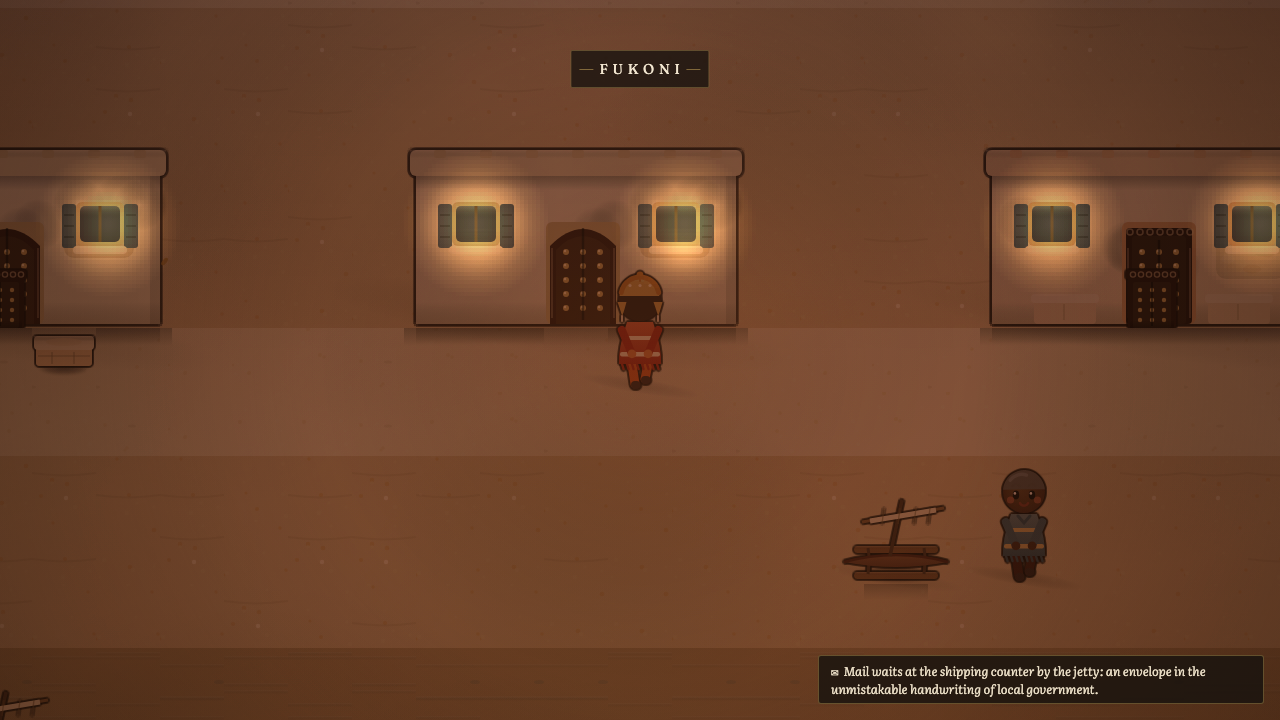
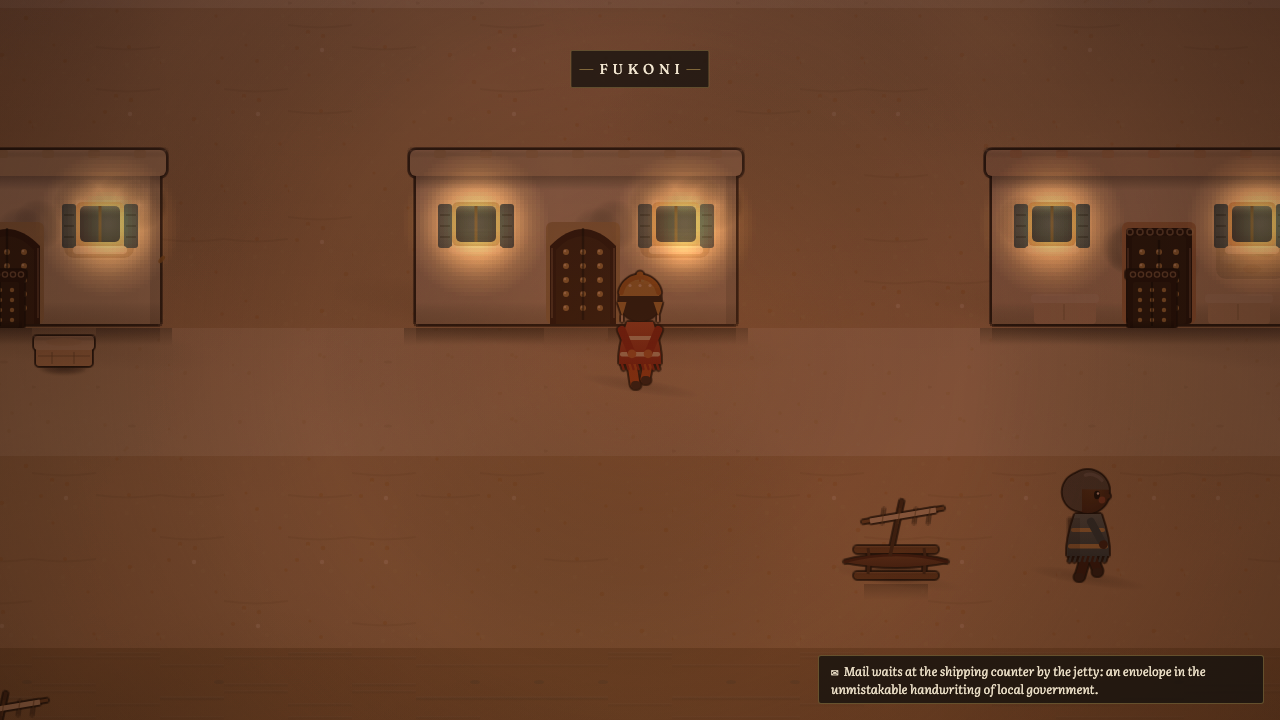
Character life pass: a real seated pose, greeting waves, speaking bob, pet hop, and the curiosity dot
Two new rig frames (sit, wave). Sitting finally has a body: legs folded,
figure settled. Villagers raise an arm as dialogue opens; whoever is
mid-sentence bobs gently with their own words; the dog hops when petted.
A quiet breathing dot marks whatever you face that would answer, and
only things, never bare ground, so discovery stays a pleasure.

Changed region(s): [[0.7812, 0.6417, 0.875, 0.825]]

diff --git a/src/engine/renderer.ts b/src/engine/renderer.ts
@@ -61,6 +61,13 @@ export class Renderer {
   private fireScreen: [number, number][] = [];
   /** Scratch cell for per-sprite compositing (fire rim). */
   private scratch = surface(AW, AH);
+  /** Greeting waves and happy hops, keyed by actor, counted down in tick. */
+  private waves = new Map<Actor, number>();
+  private bounces = new Map<Actor, number>();
+  /** Whoever is mid-sentence bobs gently. */
+  private speaker: Actor | null = null;
+  /** The facing-cell hint: a quiet pulse over whatever would respond. */
+  private hint: [number, number] | null = null;
 
   constructor(readonly canvas: HTMLCanvasElement) {
     const ctx = canvas.getContext('2d', { alpha: false });
@@ -120,6 +127,34 @@ export class Renderer {
     this.emotes = this.emotes.filter((e) => e.t < EMOTE_DUR);
     for (const p of this.puffs) p.t += dt;
     this.puffs = this.puffs.filter((p) => p.t < PUFF_DUR);
+    for (const [a, t] of this.waves) {
+      if (t - dt <= 0) this.waves.delete(a);
+      else this.waves.set(a, t - dt);
+    }
+    for (const [a, t] of this.bounces) {
+      if (t - dt <= 0) this.bounces.delete(a);
+      else this.bounces.set(a, t - dt);
+    }
+  }
+
+  /** A raised-arm hello, played as dialogue opens. */
+  wave(actor: Actor) {
+    this.waves.set(actor, 0.9);
+  }
+
+  /** A happy little hop (petting, gifts, good news). */
+  bounce(actor: Actor) {
+    this.bounces.set(actor, 0.45);
+  }
+
+  /** The actor currently mid-sentence, or null. */
+  setSpeaker(actor: Actor | null) {
+    this.speaker = actor;
+  }
+
+  /** World tile that would respond to the action button, or null. */
+  setHint(cell: [number, number] | null) {
+    this.hint = cell;
   }
 
   /** Pop a little thought bubble over someone's head. */
@@ -237,6 +272,24 @@ export class Renderer {
     }
     layers.sort((a, b) => a.sort - b.sort);
     for (const l of layers) l.draw();
+
+    // The quiet cursor of curiosity: a breathing dot over what would answer.
+    if (this.hint) {
+      const [hx, hy] = this.hint;
+      const x = (hx * TILE + TILE / 2 - cam.x) * A;
+      const y = (hy * TILE - cam.y) * A - 10;
+      const pulse = 0.5 + Math.sin(this.time * 3.2) * 0.5;
+      ctx.save();
+      ctx.globalAlpha = 0.4 + pulse * 0.3;
+      ctx.fillStyle = '#f2e6d0';
+      ctx.strokeStyle = 'rgba(38,26,16,0.6)';
+      ctx.lineWidth = 1.6;
+      ctx.beginPath();
+      ctx.arc(x, y - pulse * 3, 3.6, 0, Math.PI * 2);
+      ctx.fill();
+      ctx.stroke();
+      ctx.restore();
+    }
 
     this.drawPuffs(cam);
     this.drawEmotes(cam);
@@ -510,21 +563,34 @@ export class Renderer {
       ctx.drawImage(cv, dx, dy + ddy);
     };
 
+    // Happy hops and speaking bobs ride on top of any pose.
+    const bounceT = this.bounces.get(s.actor) ?? 0;
+    const hop = bounceT > 0 ? -Math.sin((1 - bounceT / 0.45) * Math.PI) * 7 : 0;
+    const speakBob = this.speaker === s.actor ? Math.sin(this.time * 9) * 1.6 : 0;
+    const lift = hop + speakBob;
+
     if (s.rig === 'animal') {
       const col = s.actor.walkFrame();
       mirror(col);
-      drawLit(col, 0);
+      drawLit(col, lift);
       return;
     }
 
     // Humans: six-frame walk; at rest, a slow breath and the occasional blink.
+    // A seated pose overrides the legs entirely; a wave overrides the arms.
     const idle = !s.actor.isMoving;
     let col = idle ? 0 : s.actor.walkFrame6();
     if (idle && s.actor.dir === 'down' && ((this.time + index * 1.37) % 4.1) < 0.14) {
       col = 6; // blink
     }
+    if (idle && (this.waves.get(s.actor) ?? 0) > 0) col = 8;
+    if (s.actor.pose === 'sit') {
+      mirror(7);
+      drawLit(7, lift);
+      return;
+    }
     mirror(col);
-    if (idle) {
+    if (idle && lift === 0 && col !== 8) {
       const breathe = Math.sin((this.time + index * 0.9) * 2.6) * 1.6;
       if (breathe > 0.4) {
         const split = 18 * A;
@@ -534,7 +600,7 @@ export class Renderer {
         return;
       }
     }
-    drawLit(col, 0);
+    drawLit(col, lift);
   }
 
   /** Nearest fire within reach, as direction + falloff. */

diff --git a/src/art/character.ts b/src/art/character.ts
@@ -11,7 +11,7 @@ import { dot, outlineSheet, oval, rr, shade, surface, vgrad } from './pix';
 export const CHAR_W = 20;
 export const CHAR_H = 32;
 /** Sheet columns: 0-5 = six-frame walk (0 doubles as idle), 6 = blink. */
-export const CHAR_COLS = 7;
+export const CHAR_COLS = 9; // 0-5 walk, 6 blink, 7 sit, 8 wave
 
 export const DIR_ROW = { down: 0, up: 1, left: 2, right: 3 } as const;
 
@@ -77,11 +77,16 @@ function drawPose(g: CanvasRenderingContext2D, look: Look, dir: 'down' | 'up' | 
     g.translate(-AW / 2, -126);
   }
   const blink = frame === 6;
-  const f = blink ? 0 : frame;
+  const sit = frame === 7;
+  const wave = frame === 8;
+  const f = frame >= 6 ? 0 : frame;
   const BOB = [0, -3, 0, 0, -3, 0] as const;
-  const bob = BOB[f] ?? 0;
+  const bob = sit ? 4 : (BOB[f] ?? 0);
   const SWING = [1, 0, -1, -1, 0, 1] as const;
-  const swing = SWING[f] ?? 0;
+  const swing = sit || wave ? 0 : (SWING[f] ?? 0);
+
+  // Sitting settles the whole figure toward the bench.
+  if (sit) g.translate(0, 10);
 
   const cx = AW / 2;
   const clothDark = shade(look.cloth, -0.2);
@@ -109,7 +114,40 @@ function drawPose(g: CanvasRenderingContext2D, look: Look, dir: 'down' | 'up' | 
     g.lineTo(lx + fwd + 1.5, 121 - lift);
     g.stroke();
   };
-  if (dir === 'left') {
+  if (sit) {
+    // Folded knees peeking out, shoes together: the international rest pose.
+    g.strokeStyle = leg;
+    g.lineWidth = 9;
+    g.lineCap = 'round';
+    if (dir === 'left') {
+      g.beginPath();
+      g.moveTo(cx - 2, legY + 4);
+      g.lineTo(cx + 9, legY + 6);
+      g.stroke();
+      g.strokeStyle = shoe;
+      g.lineWidth = 8;
+      g.beginPath();
+      g.moveTo(cx + 9, legY + 12);
+      g.lineTo(cx + 10.5, legY + 12);
+      g.stroke();
+    } else {
+      for (const lx of [cx - 8, cx + 8]) {
+        g.beginPath();
+        g.moveTo(lx, legY + 4);
+        g.lineTo(lx, legY + 7);
+        g.stroke();
+      }
+      g.strokeStyle = shoe;
+      g.lineWidth = 8;
+      for (const lx of [cx - 8, cx + 8]) {
+        g.beginPath();
+        g.moveTo(lx, legY + 12);
+        g.lineTo(lx + 1.5, legY + 12);
+        g.stroke();
+      }
+      g.strokeStyle = leg;
+    }
+  } else if (dir === 'left') {
     drawLeg(cx + 2, swing < 0 ? 5 : 0, swing * 6);
     drawLeg(cx - 4, swing > 0 ? 5 : 0, -swing * 6);
   } else {
@@ -202,7 +240,15 @@ function drawPose(g: CanvasRenderingContext2D, look: Look, dir: 'down' | 'up' | 
     dot(g, 0, 28, 4.4, skinShade); // hand
     g.restore();
   };
-  if (dir === 'left') {
+  if (wave) {
+    // One arm up in greeting, palm open; the other rests.
+    if (dir === 'left') {
+      drawArm(cx - 2, 2.6, clothDark);
+    } else {
+      drawArm(cx - 19, -0.1, dir === 'up' ? clothDark : shade(look.cloth, -0.08));
+      drawArm(cx + 19, 2.7, dir === 'up' ? clothDark : shade(look.cloth, -0.08));
+    }
+  } else if (dir === 'left') {
     drawArm(cx - 2, swing * 0.5, clothDark);
   } else {
     drawArm(cx - 19, -swing * 0.4, dir === 'up' ? clothDark : shade(look.cloth, -0.08));

diff --git a/src/main.ts b/src/main.ts
@@ -767,6 +767,7 @@ function startNpcDialogue(v: Villager) {
     pets++;
     renderer.emote(v.actor, '♥');
     audio.pet();
+    renderer.bounce(v.actor);
     if (pets === 13) toasts.show('✦ 13/10. would pet again');
     const node = PET_NODES[Math.min(PET_NODES.length - 1, Math.floor((pets - 1) / 2))] ?? 'allqu.pet1';
     player.frozen = true;
@@ -786,6 +787,7 @@ function startNpcDialogue(v: Villager) {
   player.frozen = true;
   talkingTo = v;
   renderer.emote(v.actor, '!');
+  if (!v.def.sprite) renderer.wave(v.actor);
   if (v.def.sprite === 'dog') audio.bark();
   else if (v.def.sprite) audio.hum();
   textbox.open(NODES, entry.node, v.portrait, endDialogue);
@@ -818,6 +820,7 @@ function startSitting() {
   sitT = 0;
   sitLineIdx = 0;
   player.frozen = true;
+  player.pose = 'sit';
   audio.setSitting(true);
   toasts.show('you sit. (any key to rise)');
 }
@@ -825,6 +828,7 @@ function startSitting() {
 function standUp() {
   sitting = false;
   player.frozen = false;
+  player.pose = 'none';
   audio.setSitting(false);
 }
 
@@ -929,6 +933,35 @@ function update(dt: number) {
     'quiet-hud',
     mode !== 'play' || textbox.isOpen || title.letterOpen || journalUI.isOpen || anyGameOpen(),
   );
+
+  // Whoever is mid-sentence leans into it.
+  renderer.setSpeaker(textbox.isTyping && talkingTo ? talkingTo.actor : null);
+
+  // The curiosity dot: does the cell you face have anything to say?
+  if (mode === 'play' && !textbox.isOpen && !journalUI.isOpen && !sitting && !warp && !anyGameOpen()) {
+    const [fx, fy] = player.facingCell();
+    const npcThere = villagersHere().some((v) => {
+      const [ox, oy] = v.actor.occupies();
+      return ox === fx && oy === fy;
+    });
+    // Only THINGS earn the dot (props, seats, mounds, people); bare ground
+    // still answers when examined, but quietly, undiscovered on purpose.
+    const objKind = map.object(fx, fy)?.t;
+    const digThere =
+      map.id === 'village' &&
+      state.has('dig.invite') &&
+      !state.has('dig.done') &&
+      DIG_SPOTS.some((sp) => sp.at[0] === fx && sp.at[1] === fy && !state.has(sp.flag));
+    const examThere =
+      digThere ||
+      (objKind !== undefined &&
+        objKind !== 'blocked' &&
+        (SIT_KINDS.has(objKind) ||
+          (EXAMINES[objKind]?.some((a) => (!a.map || a.map === map.id) && state.check(a.when)) ?? false)));
+    renderer.setHint(npcThere || examThere ? [fx, fy] : null);
+  } else {
+    renderer.setHint(null);
+  }
   updateSitting(dt);
   updateWarp(dt);
 

diff --git a/src/ui/textbox.ts b/src/ui/textbox.ts
@@ -50,6 +50,11 @@ export class Textbox {
     return this.isOpen ? this.nodeId : '';
   }
 
+  /** True while the typewriter is still revealing the current line. */
+  get isTyping(): boolean {
+    return this.isOpen && this.typing;
+  }
+
   open(nodes: NodeMap, startId: string, portrait: HTMLCanvasElement | null, onClose?: () => void) {
     this.nodes = nodes;
     this.portraitCv = portrait;

diff --git a/src/engine/actor.ts b/src/engine/actor.ts
@@ -33,6 +33,8 @@ export class Actor {
   private steps = 0;
   /** Frozen actors ignore intent entirely (used while dialogue is open). */
   frozen = false;
+  /** Transient body pose: 'sit' folds the legs and settles the figure. */
+  pose: 'none' | 'sit' = 'none';
 
   constructor(x: number, y: number, dir: Dir = 'down') {
     this.x = x;
